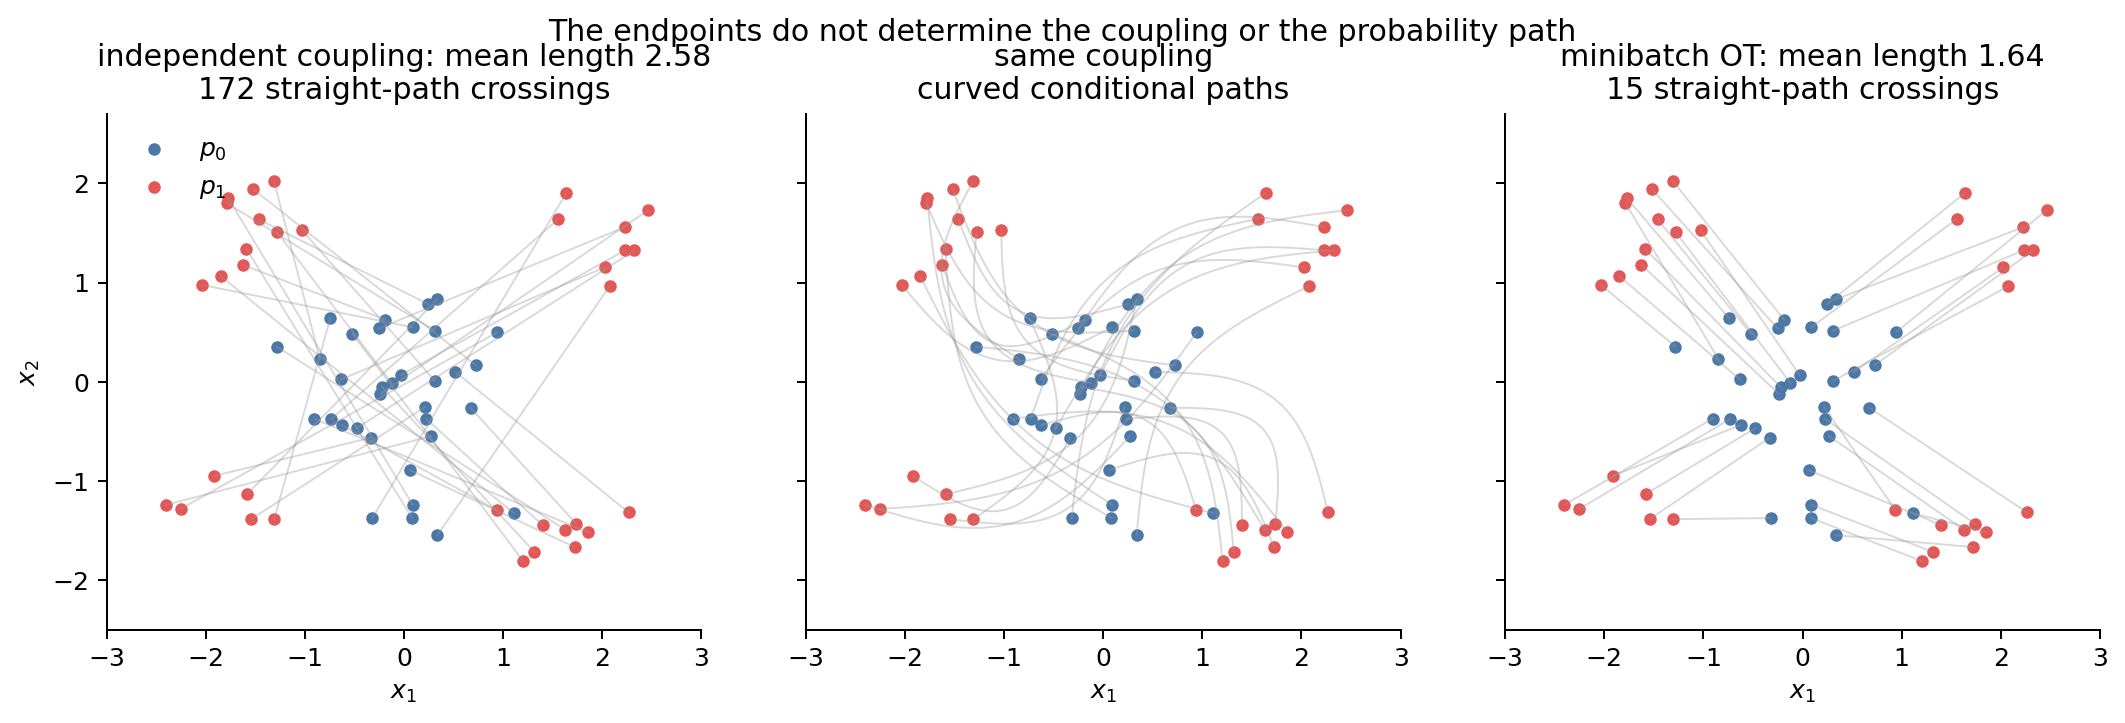
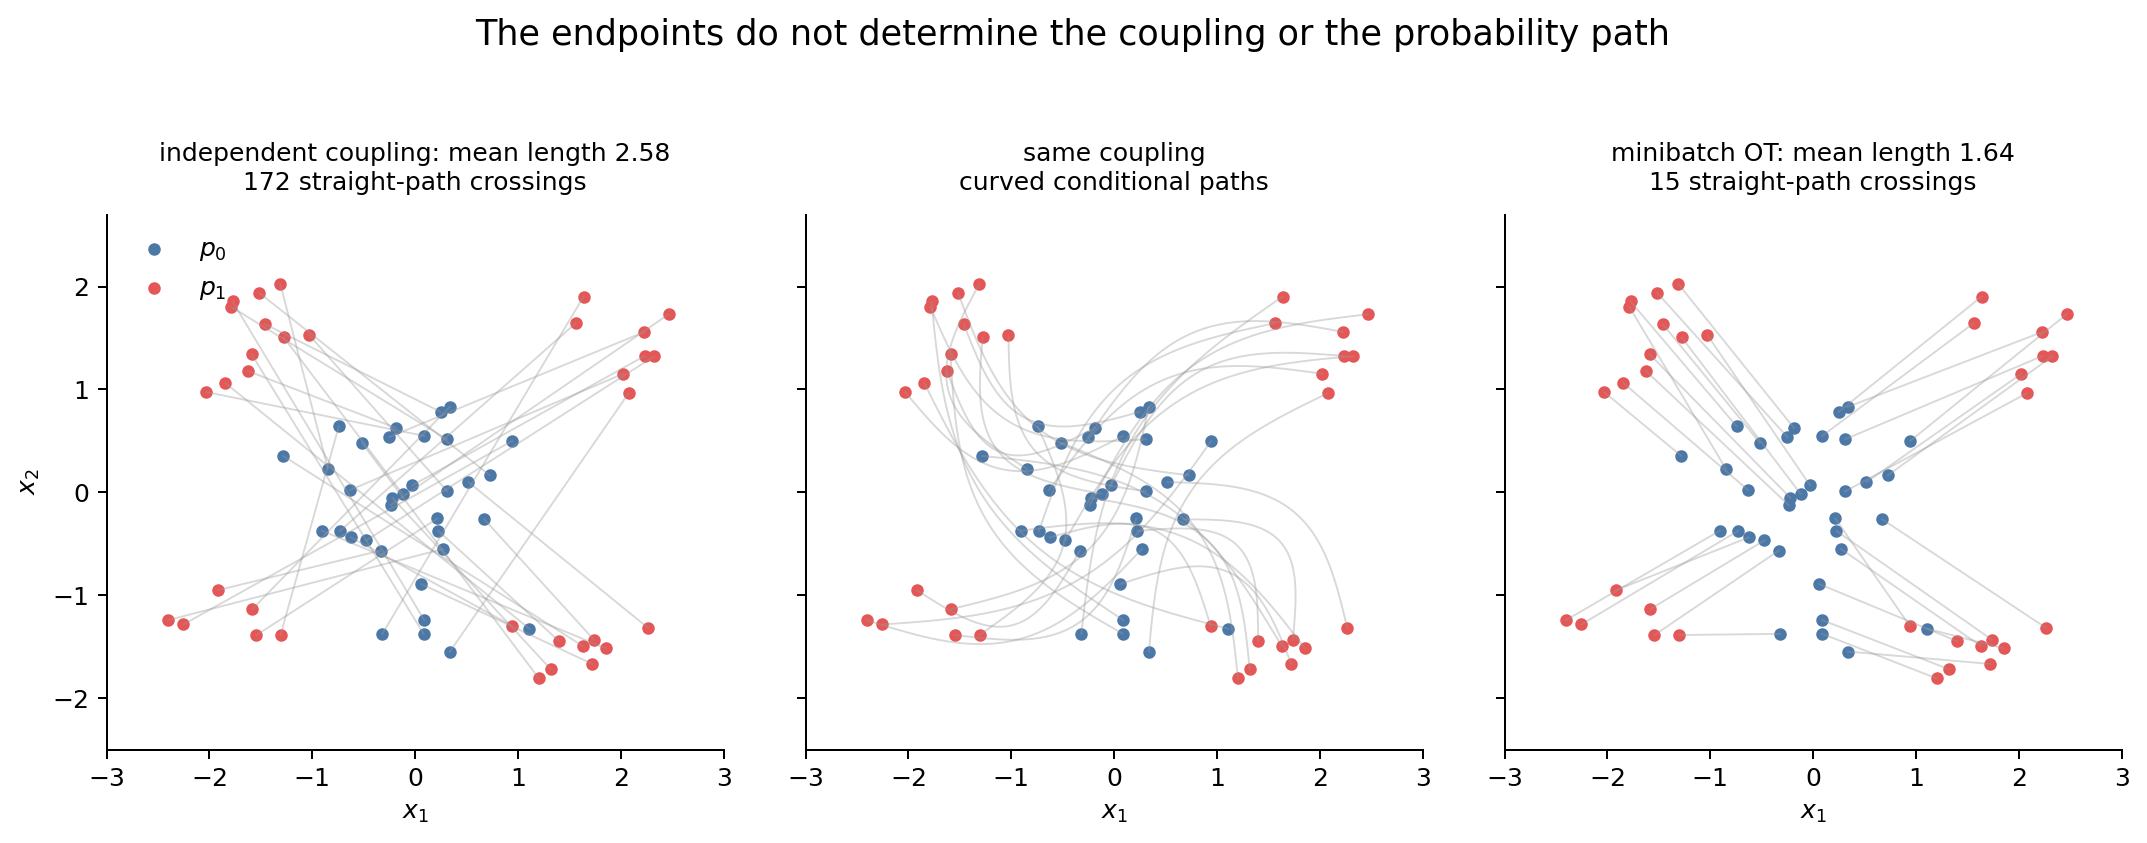
Improve example observability and figures

diff --git a/tests/test_project_scaffold.py b/tests/test_project_scaffold.py
@@ -39,6 +39,7 @@ EXPECTED_FILES = {
     "src/example_lab/__init__.py",
     "src/example_lab/stochaflow_ext/__init__.py",
     "src/example_lab/stochaflow_ext/data.py",
+    "src/example_lab/stochaflow_ext/diagnostics.py",
     "src/example_lab/stochaflow_ext/model.py",
     "src/example_lab/stochaflow_ext/sampling.py",
     "src/example_lab/stochaflow_ext/training.py",
@@ -150,6 +151,28 @@ def test_create_project_writes_deterministic_installable_distribution(
     )
     assert config["extensions"] == {"plugins": ["example-lab"]}
     assert config["process"] is None
+    assert config["lr_scheduler"] == {
+        "name": "torch.optim.lr_scheduler.StepLR",
+        "interval": "epoch",
+        "params": {"step_size": 1, "gamma": 0.9},
+    }
+    assert config["ema"] == {
+        "enabled": True,
+        "decay": 0.9,
+        "update_after_step": 0,
+        "update_every": 1,
+        "use_for_sampling": True,
+    }
+    assert config["diagnostics"] == [
+        {
+            "name": "example-lab.regression-quality",
+            "params": {"every_steps": 1},
+        }
+    ]
+    assert [backend["name"] for backend in config["logging"]["backends"]] == [
+        "local",
+        "tensorboard",
+    ]
     assert config["sampling"]["writers"] == [{"name": "tensor", "params": {}}]
     for relative_path in sorted(EXPECTED_FILES):
         if relative_path.endswith(".py"):
@@ -165,6 +188,7 @@ def test_generated_readme_documents_the_complete_user_path(tmp_path: Path) -> No
         "pyproject.toml",
         "stochaflow_ext/__init__.py",
         "stochaflow_ext/data.py",
+        "stochaflow_ext/diagnostics.py",
         "stochaflow_ext/model.py",
         "stochaflow_ext/training.py",
         "stochaflow_ext/sampling.py",
@@ -180,6 +204,7 @@ def test_generated_readme_documents_the_complete_user_path(tmp_path: Path) -> No
         "--resume outputs/example/<run-id>",
         "stochaflow sample \\",
         "--checkpoint outputs/example/<run-id>/checkpoints/best.pt",
+        "tensorboard --logdir outputs/example/<run-id>/tensorboard",
     ):
         assert command in readme
     assert "strict resume" in readme.lower()
@@ -253,6 +278,7 @@ assert "example-lab.synthetic-regression" in REGISTRIES.data_builders.names()
 assert "example-lab.linear-regression" in REGISTRIES.models.names()
 assert "example-lab.regression" in REGISTRIES.training_builders.names()
 assert "example-lab.regression-predictions" in REGISTRIES.sampling_builders.names()
+assert "example-lab.regression-quality" in REGISTRIES.diagnostics.names()
 """
     environment = dict(os.environ)
     existing_pythonpath = environment.get("PYTHONPATH")
@@ -440,6 +466,17 @@ def test_generated_wheel_runs_train_resume_and_checkpoint_sampling(
     assert (initial_run / "checkpoints/latest.pt").is_file()
     assert (initial_run / "checkpoints/best.pt").is_file()
     assert (initial_run / "run_manifest.yaml").is_file()
+    assert "diagnostics/regression/rmse" in (
+        initial_run / "metrics.jsonl"
+    ).read_text(encoding="utf-8")
+    tensorboard_events = tuple(
+        (
+            initial_run
+            / "tensorboard"
+            / "example-lab-example"
+        ).glob("events.out.tfevents.*")
+    )
+    assert len(tensorboard_events) == 1
 
     resumed_root = project / "outputs/resumed"
     _run_generated_cli(
@@ -507,6 +544,25 @@ def test_generated_wheel_runs_train_resume_and_checkpoint_sampling(
     )
     assert (sample_output / "samples.pt").is_file()
     assert (sample_output / "resolved_sampling.yaml").is_file()
+
+
+def test_runtime_dependencies_exclude_development_and_research_tools() -> None:
+    repository = Path(__file__).resolve().parents[1]
+    project = tomllib.loads(
+        (repository / "pyproject.toml").read_text(encoding="utf-8")
+    )
+    dependencies = project["project"]["dependencies"]
+    extras = project["project"]["optional-dependencies"]
+
+    assert "tensorboard>=2.16" in dependencies
+    assert not any(
+        dependency.startswith(("matplotlib", "ruff", "scipy", "tqdm"))
+        for dependency in dependencies
+    )
+    assert {"pyright>=1.1.400", "pytest>=8.3", "ruff>=0.15.13"} <= set(
+        extras["dev"]
+    )
+    assert {"matplotlib>=3.10.9", "scipy>=1.16.1"} <= set(extras["docs"])
 
 
 @pytest.mark.parametrize(

diff --git a/docs/research-notes/generate_transport_figures.py b/docs/research-notes/generate_transport_figures.py
@@ -19,9 +19,17 @@ FIGURE_DIR = Path(__file__).with_name("figures")
 SEED = 17
 
 
-def _finish(fig: plt.Figure, name: str) -> None:
+def _finish(
+    fig: plt.Figure,
+    name: str,
+    *,
+    rect: tuple[float, float, float, float] | None = None,
+) -> None:
     FIGURE_DIR.mkdir(parents=True, exist_ok=True)
-    fig.tight_layout()
+    if rect is None:
+        fig.tight_layout()
+    else:
+        fig.tight_layout(rect=rect)
     fig.savefig(FIGURE_DIR / name, dpi=180, bbox_inches="tight")
     plt.close(fig)
 
@@ -202,7 +210,7 @@ def flow_matching_paths() -> None:
     random_crossings = straight_crossings(source, random_target)
     ot_crossings = straight_crossings(source, ot_target)
 
-    fig, axes = plt.subplots(1, 3, figsize=(12.2, 3.8), sharex=True, sharey=True)
+    fig, axes = plt.subplots(1, 3, figsize=(12.2, 4.3), sharex=True, sharey=True)
     specifications = [
         (
             random_target,
@@ -229,10 +237,15 @@ def flow_matching_paths() -> None:
         ax.scatter(paired[:, 0], paired[:, 1], s=16, color="#E45756", label="$p_1$")
         ax.set(xlim=(-3.0, 3.0), ylim=(-2.5, 2.7), xlabel="$x_1$")
         _style_axis(ax, title, equal=True)
+        ax.set_title(title, fontsize=10, pad=10, linespacing=1.25)
     axes[0].set_ylabel("$x_2$")
     axes[0].legend(frameon=False, loc="upper left")
-    fig.suptitle("The endpoints do not determine the coupling or the probability path")
-    _finish(fig, "flow_matching_paths.png")
+    fig.suptitle(
+        "The endpoints do not determine the coupling or the probability path",
+        fontsize=14,
+        y=0.98,
+    )
+    _finish(fig, "flow_matching_paths.png", rect=(0.0, 0.0, 1.0, 0.84))
 
 
 def flow_conditional_marginal_field() -> None:
@@ -331,7 +344,9 @@ def same_marginals_different_joint() -> None:
                 alpha=0.45,
                 zorder=3,
             )
-        ax.set(xlabel="$t$", ylim=(-3.0, 3.0))
+        # The deterministic sample contains one value just above 3.0.  Keep a
+        # small visual margin so the path and marker are not clipped.
+        ax.set(xlabel="$t$", ylim=(-3.0, 3.3))
         _style_axis(ax, title)
     axes[0].set_ylabel("$X_t$")
     fig.suptitle(
@@ -542,6 +557,8 @@ def _ddim_trajectory(
         selected_timesteps = np.arange(len(alpha_bars))
     if selected_timesteps.ndim != 1 or len(selected_timesteps) < 2:
         raise ValueError("selected_timesteps must contain at least two entries")
+    if not np.issubdtype(selected_timesteps.dtype, np.integer):
+        raise ValueError("selected_timesteps must contain integer indices")
     if selected_timesteps[0] != 0 or selected_timesteps[-1] != len(alpha_bars) - 1:
         raise ValueError(
             "selected_timesteps must include the clean and noisy endpoints"
@@ -554,8 +571,8 @@ def _ddim_trajectory(
     for timestep, previous_timestep in zip(
         selected_timesteps[:0:-1], selected_timesteps[-2::-1], strict=True
     ):
-        alpha_t = alpha_bars[timestep]
-        alpha_prev = alpha_bars[previous_timestep]
+        alpha_t = float(alpha_bars[int(timestep)])
+        alpha_prev = float(alpha_bars[int(previous_timestep)])
         epsilon = _epsilon_oracle(x, alpha_t)
         x0_hat = (x - np.sqrt(1 - alpha_t) * epsilon) / np.sqrt(alpha_t)
         sigma = eta * np.sqrt(

diff --git a/tests/test_config.py b/tests/test_config.py
@@ -61,6 +61,18 @@ def test_load_ddpm_mnist_config() -> None:
     assert config.trainer.num_epochs == 30
     assert config.trainer.early_stopping.patience == 7
     assert config.trainer.early_stopping.min_delta == 0.00001
+    assert [diagnostic.name for diagnostic in config.diagnostics] == [
+        "diffusion_quality"
+    ]
+    diagnostic_params = config.diagnostics[0].params
+    assert [profile["id"] for profile in diagnostic_params["samplers"]] == [
+        "ddim_20"
+    ]
+    assert diagnostic_params["reference"] == {"enabled": False}
+    assert [backend.name for backend in config.logging.backends] == [
+        "local",
+        "tensorboard",
+    ]
     assert config.artifacts.checkpoint_every == 5
 
 

diff --git a/src/stochaflow/projects/scaffold.py b/src/stochaflow/projects/scaffold.py
@@ -94,6 +94,10 @@ _TEMPLATE_MANIFEST: Final = (
         f"src/{_PACKAGE_NAME_SENTINEL}/stochaflow_ext/model.py",
     ),
     _TemplateFile(
+        "diagnostics.py.tmpl",
+        f"src/{_PACKAGE_NAME_SENTINEL}/stochaflow_ext/diagnostics.py",
+    ),
+    _TemplateFile(
         "training.py.tmpl",
         f"src/{_PACKAGE_NAME_SENTINEL}/stochaflow_ext/training.py",
     ),

diff --git a/src/stochaflow/utils/logging.py b/src/stochaflow/utils/logging.py
@@ -236,7 +236,7 @@ class TensorBoardLogger(ExperimentLogger):
         run_name: str,
         subdir: str = "tensorboard",
     ) -> None:
-        from torch.utils.tensorboard.writer import SummaryWriter
+        from torch.utils.tensorboard import SummaryWriter
 
         log_dir = Path(output_dir) / subdir / run_name
         log_dir.mkdir(parents=True, exist_ok=True)

diff --git a/README.md b/README.md
@@ -107,8 +107,8 @@ Optional dependency groups:
 | --- | --- |
 | `wandb` | Weights & Biases logging |
 | `quality` | KID/FID diagnostics and their feature model |
-| `docs` | Sphinx documentation toolchain |
-| `dev` | Pytest and Pyright for source contributors |
+| `docs` | Sphinx documentation and research-figure toolchain |
+| `dev` | Pytest, Ruff, and Pyright for source contributors |
 
 TensorBoard support is part of the base installation; it does not need a
 separate extra.
@@ -330,6 +330,9 @@ outputs/<experiment>/<YYYYMMDD_HHMMSS>/
   train.log
   resolved_config.yaml
   run_manifest.yaml
+  tensorboard/
+    <experiment-name>/
+      events.out.tfevents.*
   samples/
     final/
       samples.png
@@ -376,8 +379,15 @@ provider and enable it from `diagnostics[].params.modules` without modifying the
 
 Images are saved locally and forwarded to every configured TensorBoard or W&B
 logger. Optional KID/FID evaluation uses a fixed validation reference cache and
-is enabled with the `quality` installation extra. See the Flowers102 configs for
-a complete DDPM/DDIM comparison declaration.
+is enabled with the `quality` installation extra. The MNIST config is a
+base-installation example with a lightweight DDIM profile and no reference
+metrics; see the Flowers102 configs for a complete DDPM/DDIM comparison.
+
+Launch TensorBoard against one experiment's output root:
+
+```bash
+tensorboard --logdir outputs/ddpm_mnist/<run>/tensorboard
+```
 
 ## Sampling
 

diff --git a/docs/configuration/index.md b/docs/configuration/index.md
@@ -65,8 +65,8 @@ python -m pip install ./dist/stochaflow-0.1.0-py3-none-any.whl
 | `stochaflow` | 核心 runtime、TensorBoard logger 和 CLI |
 | `stochaflow[wandb]` | W&B logger |
 | `stochaflow[quality]` | KID/FID diagnostic |
-| `stochaflow[docs]` | 本地构建文档 |
-| `stochaflow[dev]` | Pytest 与 Pyright；面向源码贡献 |
+| `stochaflow[docs]` | 本地构建文档与研究图表 |
+| `stochaflow[dev]` | Pytest、Ruff 与 Pyright；面向源码贡献 |
 
 ### 从源码贡献
 
@@ -85,6 +85,14 @@ uv run stochaflow train \
 
 ```bash
 uv run stochaflow train --config configs/ddpm_mnist.yaml
+```
+
+该示例同时启用原生 PyTorch LR scheduler、EMA、TensorBoard 和轻量
+`diffusion_quality` diagnostic；reference KID/FID 默认关闭，因此不需要
+`quality` extra。查看训练与 diagnostic 指标：
+
+```bash
+tensorboard --logdir outputs/ddpm_mnist/<run>/tensorboard
 ```
 
 从最佳 checkpoint 采样：

diff --git a/docs/research-notes/part-1-distribution-transport.md b/docs/research-notes/part-1-distribution-transport.md
@@ -913,7 +913,7 @@ Diffusion 并不要求采样时始终注入噪声。训练得到的 score 可以
 运行：
 
 ```bash
-uv run python docs/research-notes/generate_transport_figures.py
+uv run --extra docs python docs/research-notes/generate_transport_figures.py
 ```
 
 脚本只使用 `numpy`、`scipy`、`matplotlib`。扩散相关图使用解析高斯混合分布和 oracle posterior mean，用于隔离动力学概念；真实网络的训练误差没有进入这些图。

diff --git a/docs/research-notes/part-3-ddim.md b/docs/research-notes/part-3-ddim.md
@@ -2572,7 +2572,7 @@ Deterministic DDIM 在连续极限下与 probability flow ODE 紧密相关，但
 运行：
 
 ```bash
-uv run python docs/research-notes/generate_transport_figures.py
+uv run --extra docs python docs/research-notes/generate_transport_figures.py
 ```
 
 ## 主要文献

diff --git a/docs/research-notes/part-2-ddpm.md b/docs/research-notes/part-2-ddpm.md
@@ -1080,7 +1080,7 @@ $$
 运行：
 
 ```bash
-uv run python docs/research-notes/generate_transport_figures.py
+uv run --extra docs python docs/research-notes/generate_transport_figures.py
 ```
 
 ## 主要文献
